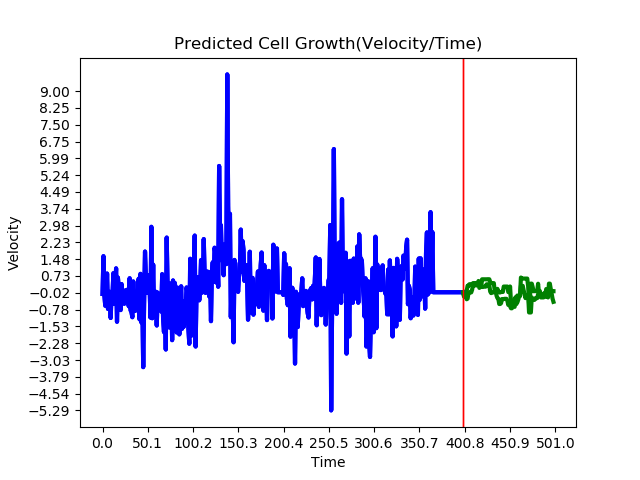
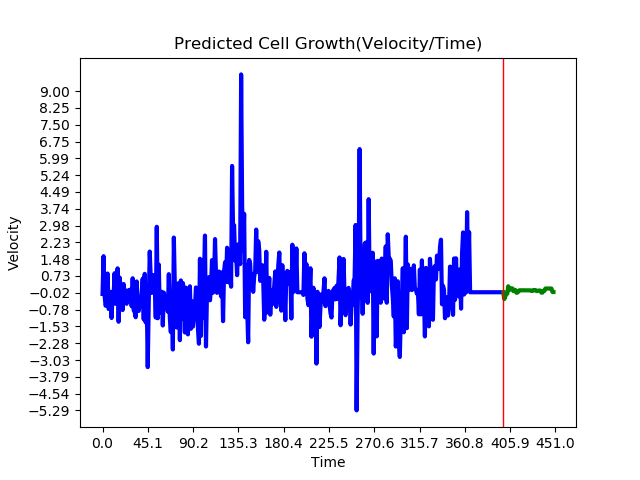
can now collect and use input

diff --git a/myflaskapp/app.py b/myflaskapp/app.py
@@ -25,8 +25,8 @@ def uploader_file():
    if request.method == 'POST': #Checks if the post method was sent
       f = request.files['file'] #f gets the fiels that were sent
       f.save(secure_filename(f.filename)) #save f
-      timeOfPred = 100    #TODO add input on screen for time
-      inVals = makePrediction(f.filename, timeOfPred) #'inputTestData.json'
+      timeInput = request.form['userTimeInput']
+      inVals = makePrediction(f.filename, int(timeInput)) #'inputTestData.json'
       return displayResult([1], inVals)
 
 #Hook to display prediction result in html
@@ -37,7 +37,7 @@ predictionResultsFromData = []
 def displayResult(predictionResults, inVals):
     full_filepath = os.path.join(app.config['UPLOAD_FOLDER'], 'newFigure1.png')
     full_filepath1 = os.path.join(app.config['UPLOAD_FOLDER'], 'accelGraph.png')
-    timeInput = request.form['userTimeInput']
+    
     return render_template('displayResult.html',user_images1 =full_filepath1, user_images = full_filepath, predictionResults = inVals)
 
 def makePrediction(inputFileName, timeOfPred):
